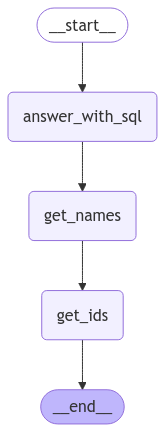
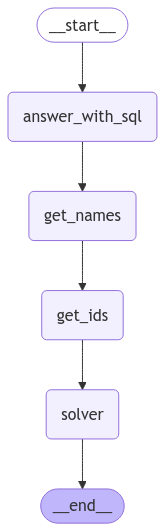
63

diff --git a/scripts/agent.py b/scripts/agent.py
@@ -8,8 +8,9 @@ from typing import Any, Dict, List, Annotated, Sequence, TypedDict, Literal,Opti
 from langchain_community.agent_toolkits.sql.toolkit import SQLDatabaseToolkit
 from langchain_community.utilities.sql_database import SQLDatabase
 from langchain_ibm import WatsonxLLM
-from langchain_openai import ChatOpenAI
+from langchain_openai import ChatOpenAI,AzureChatOpenAI
 from langchain_groq import ChatGroq
+from langchain_core.messages import BaseMessage, HumanMessage, AIMessage
 from langgraph.prebuilt import create_react_agent
 from dotenv import load_dotenv
 import operator
@@ -20,8 +21,8 @@ import os
 
 load_dotenv(override=True)
 db = SQLDatabase.from_uri("sqlite:///restaurants.db")
-llm = ChatOpenAI(
-    model="gpt-4o",  # "llama-3.3-70b-versatile",
+llm = AzureChatOpenAI(
+    deployment_name="gpt-4o-mini",  # "llama-3.3-70b-versatile",
     temperature=0,
 
 )
@@ -53,11 +54,12 @@ class AgentSQL():
         workflow.add_node("answer_with_sql",self.answer_sql)
         workflow.add_node("get_names",self.get_name_node)
         workflow.add_node("get_ids",self.get_ids)
-        
+        workflow.add_node("solver",self.solver)
         workflow.add_edge(START,"answer_with_sql")
         workflow.add_edge("answer_with_sql","get_names")
         workflow.add_edge("get_names","get_ids")
-        workflow.add_edge("get_ids",END)
+        workflow.add_edge("get_ids","solver")
+        workflow.add_edge("solver",END)
         
         self.graph = workflow.compile()
 
@@ -97,7 +99,6 @@ class AgentSQL():
         
         example_query=state["question"]
         result=agent_executor.invoke({"messages":[("user", example_query)]})
-        print("result",result)
         return {"generation":result}
     
     def get_name_node(self,state):
@@ -117,11 +118,14 @@ class AgentSQL():
             ]
         )
 
-        return answer_prompt | structured_llm_graderd
+        return answer_prompt | structured_llm_grader
         
     def get_ids(self,state):
-        a={"ids": [dishes_data[name] for name in state["names"]]}
+        a={"ids": [dishes_data[name] for name in state["names"] if name in dishes_data]}
         return a
+    def solver(self,state):
+        return {"messages":[AIMessage(content=str(state["ids"]))]}
+
 
 
     

diff --git a/main.py b/main.py
@@ -10,9 +10,12 @@ def main():
     agente = AgentSQL()
     df=load_csv("domande.csv")
     questions = df['Question'].tolist()
-    image_data = agente.graph.get_graph(xray=True).draw_mermaid_png()
-    with open("graph.png", "wb") as file:
-        file.write(image_data)
+    row_ids = []
+    responses=[]
+    # image_data = agente.graph.get_graph(xray=True).draw_mermaid_png()
+    # with open("graph.png", "wb") as file:
+    #     file.write(image_data)
+    id=1
     for question in questions:
         initial_state = {
         "question": question,
@@ -25,7 +28,26 @@ def main():
         debug = None  # Enable debugging if needed
         kwargs = {}  # Additional keyword arguments if required
         result=agente.graph.invoke(initial_state)
+        ids = result["ids"]
+        if isinstance(ids, list):
+            result_str = ",".join(map(str, ids))  # Concatena i valori della lista
+        else:
+            result_str = str(ids)  # Converte direttamente il valore singolo in stringa
+        responses.append(result_str)
+        row_ids.append(id)
+        print(id)
+        id += 1
+        
 
+    # Crea un DataFrame per salvare i risultati
+        output_df = pd.DataFrame({
+            "row_id": row_ids,
+            "result": responses
+        })
+
+    # Salva il DataFrame in un file CSV
+        output_df.to_csv("output.csv", index=False)
+        
         
 def load_csv(file_path):
     """Load CSV and return a DataFrame."""

diff --git a/scripts/rag-compliance-azd/retrival.py b/scripts/rag-compliance-azd/retrival.py
@@ -19,12 +19,3 @@ def retrive_sources(query:str):
     results_list = list(results)
     content = "\n".join(["Sources:\n " + doc['contet'] + "\n" for doc in results_list])
     return content
-<<<<<<< HEAD
-=======
-
-print(retrive_sources(
-    """
-    Quali piatti creati con almeno una tecnica di taglio dal Manuale di Cucina di Sirius Cosmo e che necessitano della licenza t non base per la preparazione, escludendo quelli con Fusilli del Vento, sono serviti?
-    """
-))
->>>>>>> 66ae980 (modifiche varie)
